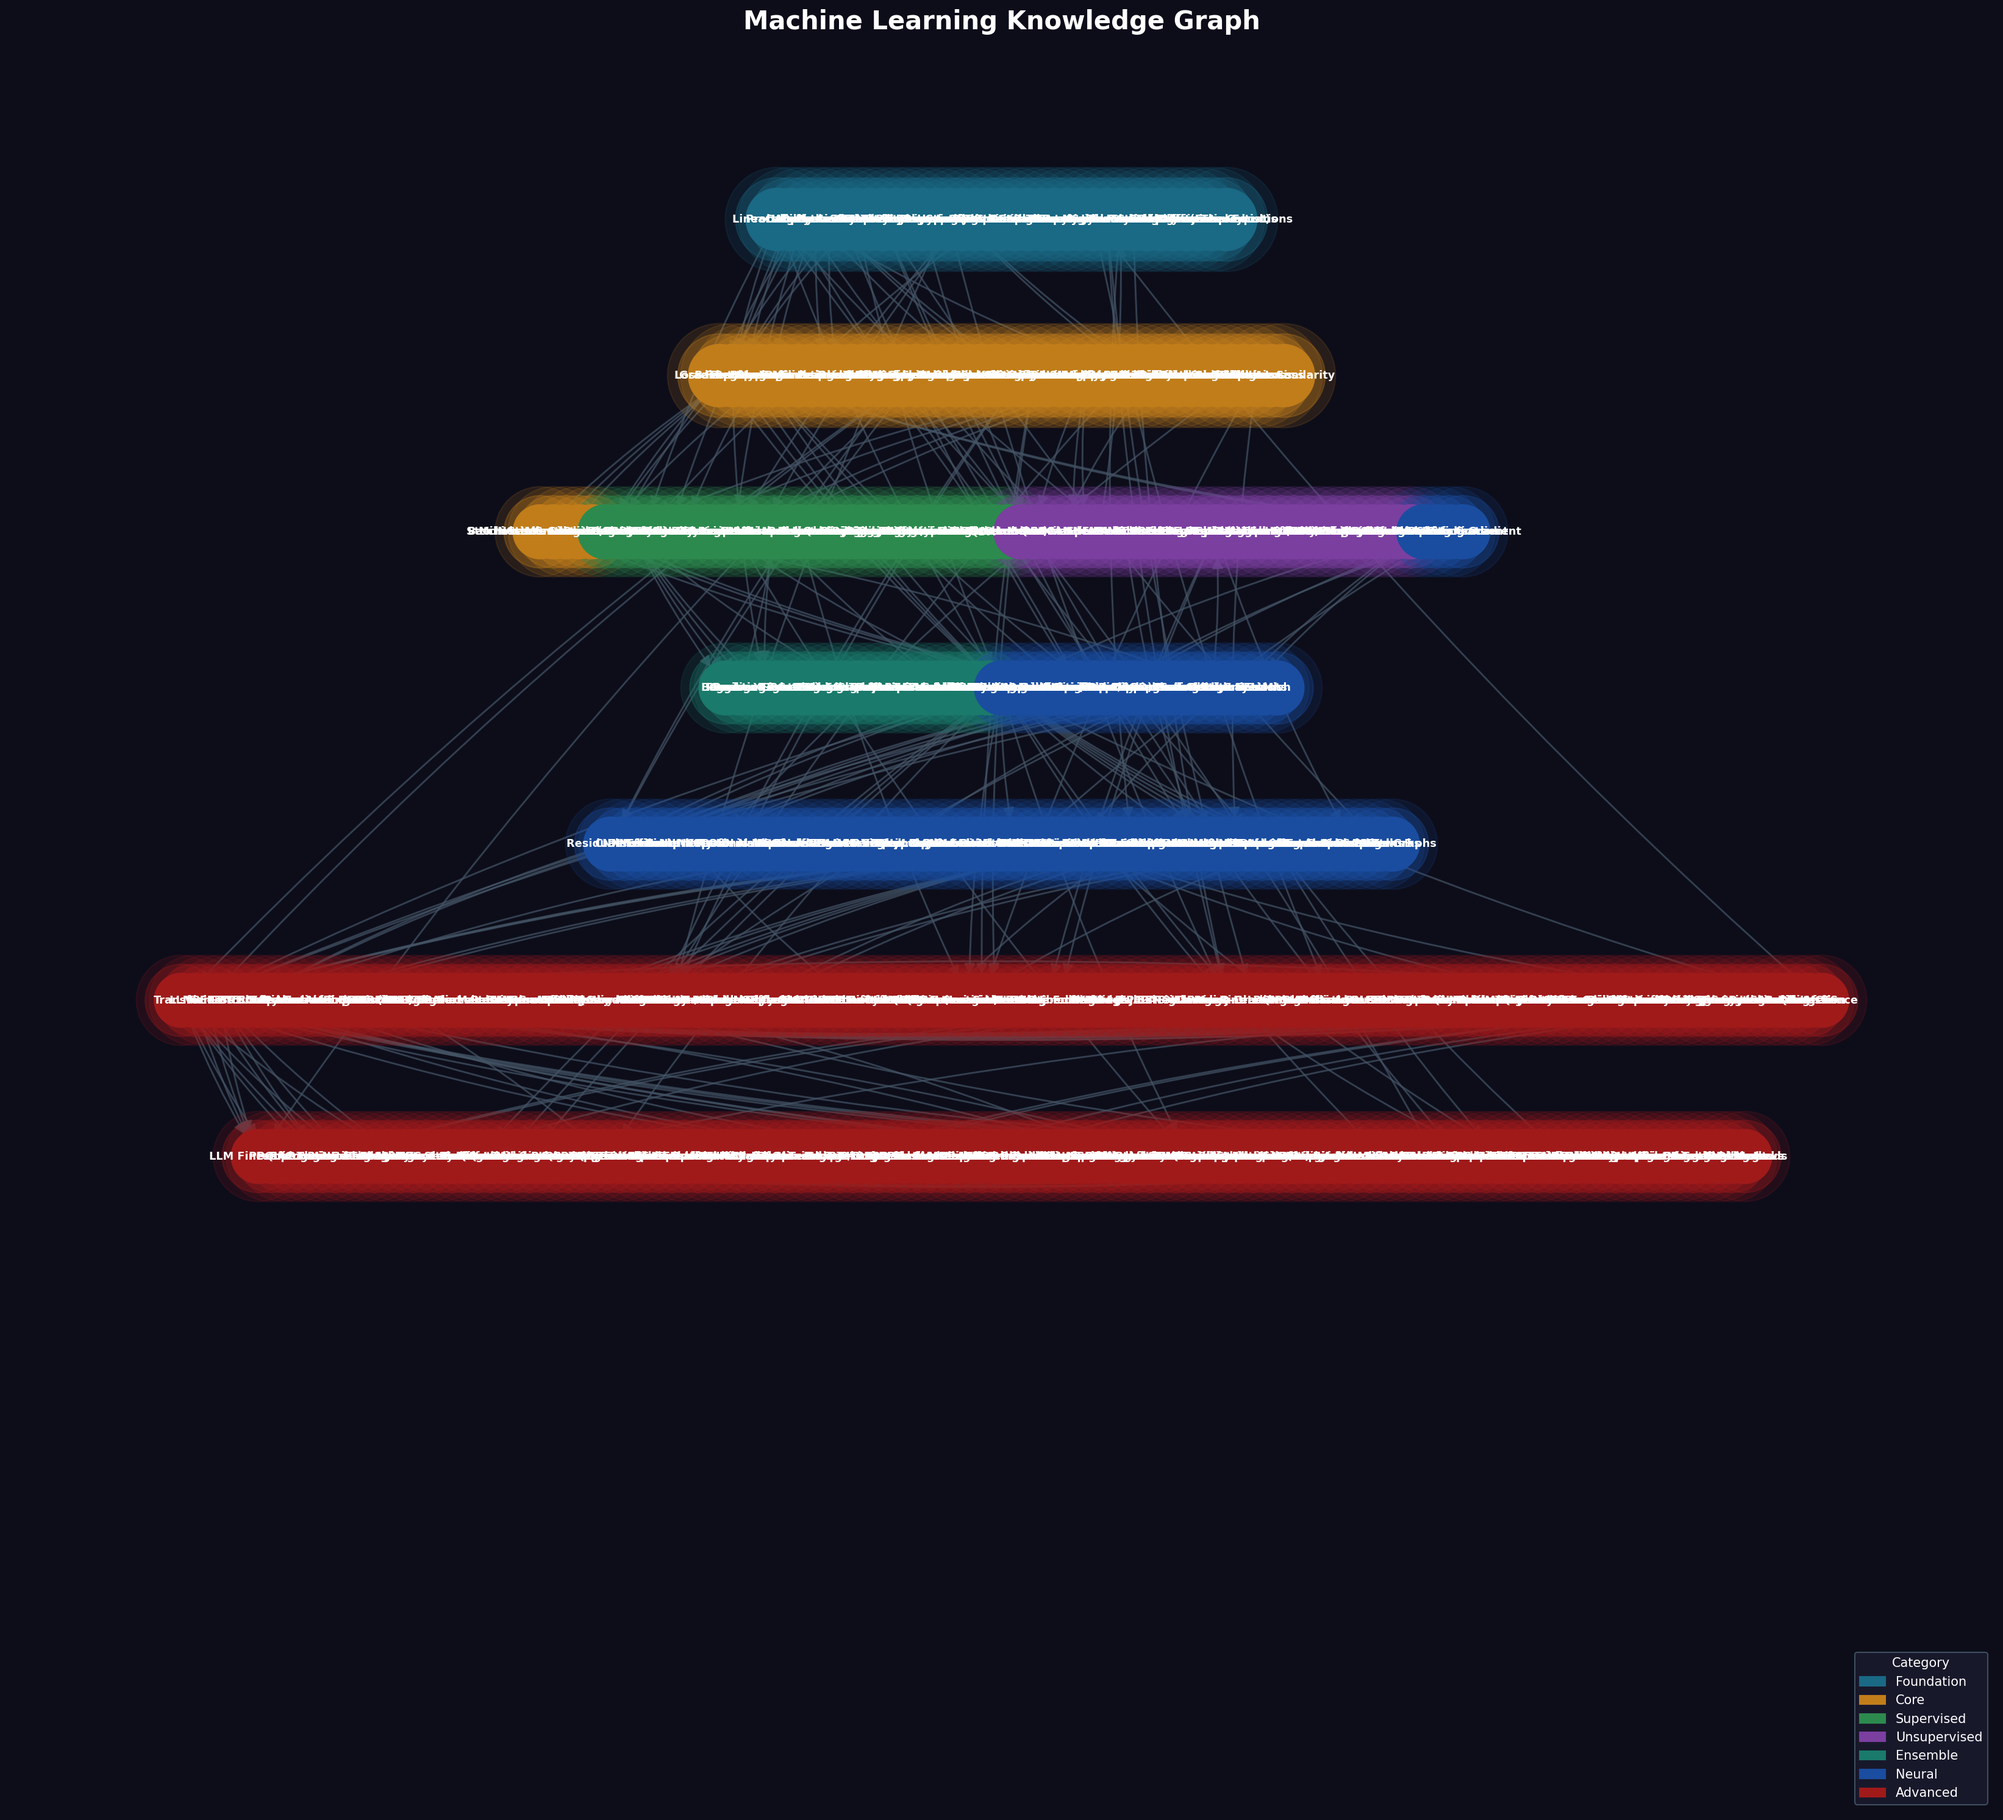
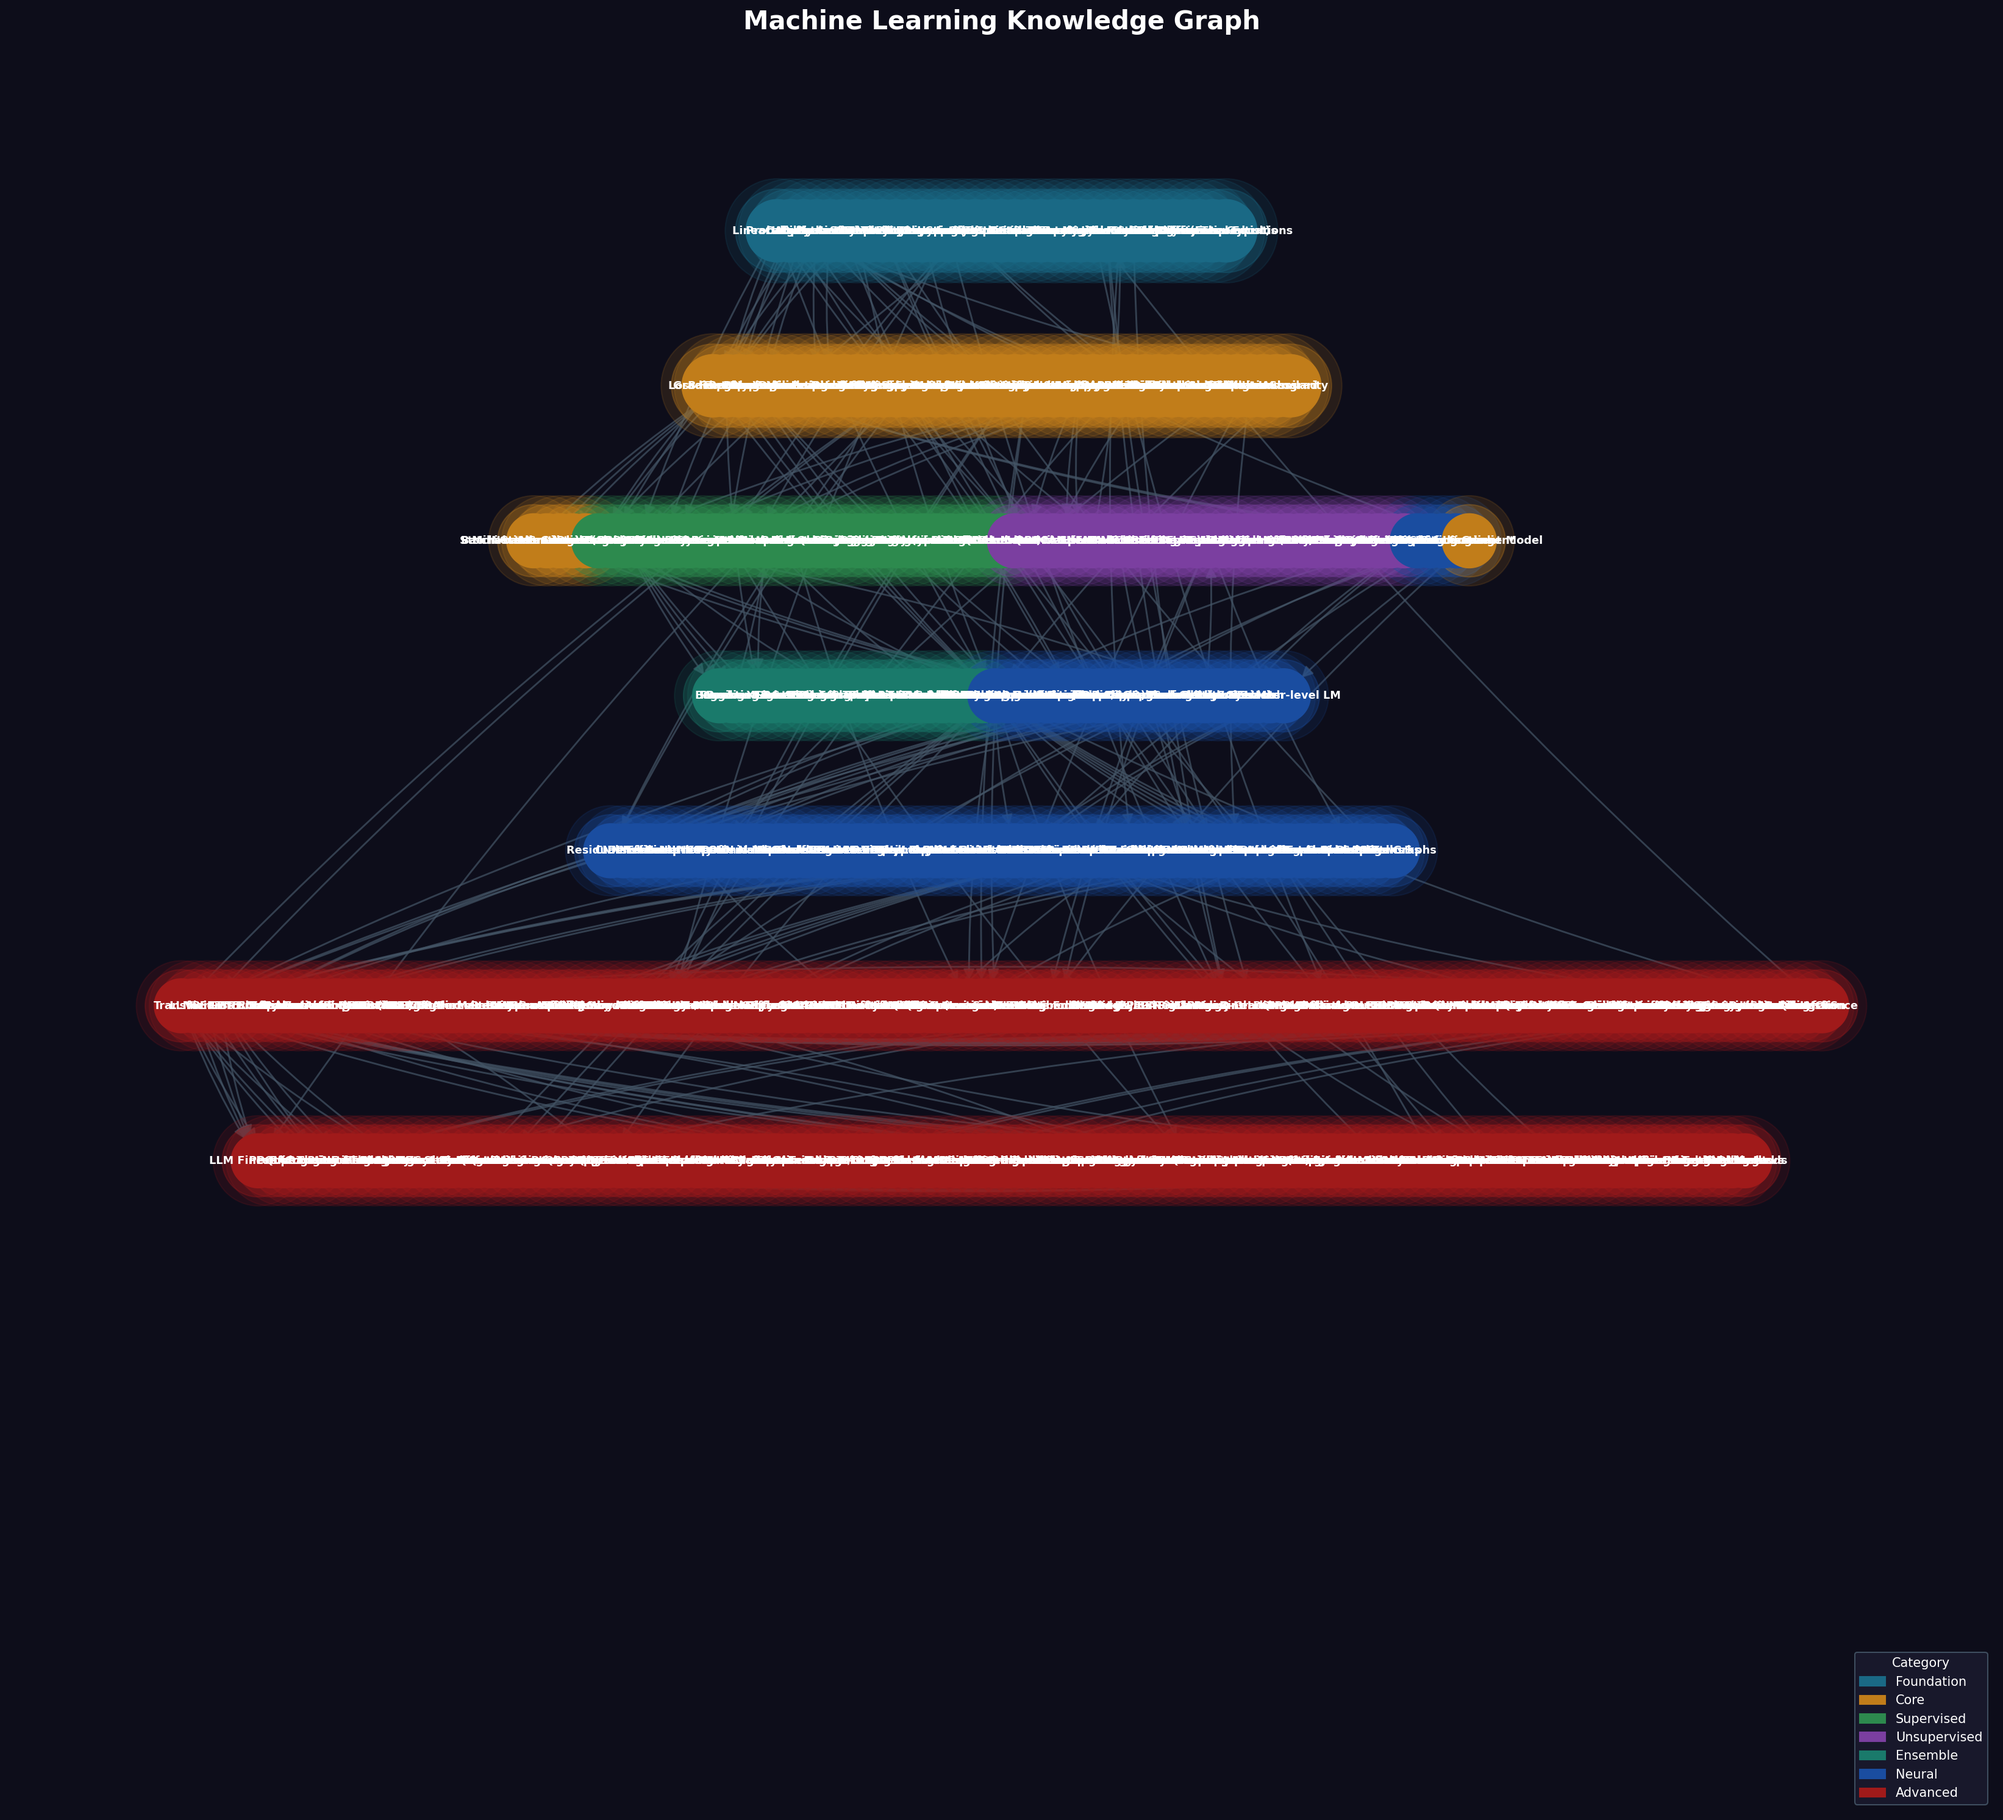
Add Karpathy's teaching nodes + YouTube links for 9 concepts
New nodes:
- Autograd (level 1) — automatic differentiation engine (micrograd)
- Bigram Language Model (level 2) — simplest language model baseline
- Character-level LM (level 3) — character-level text generation (makemore)

YouTube lecture links added to:
- Backpropagation, Neural Networks → micrograd lecture
- GPT, Transformers → Let's build GPT from scratch
- BPE Tokenization → Let's build the GPT Tokenizer
- LLM → Intro to Large Language Models
- RNNs → makemore part 4
- Word Embeddings → makemore part 2

New YouTube button (red ▶) renders in node info panel alongside
arXiv and GitHub links.

Total: 502 nodes, 622 edges.

Changed region(s): [[0.0621, 0.0935, 0.9315, 0.6854]]

diff --git a/static/index.html b/static/index.html
@@ -720,7 +720,7 @@ fetch('graph.json').then(r => r.json()).then(data => {
     'LLM':                          { arxiv: '2005.14165', github: 'huggingface/transformers' },
     'Transformers':                 { arxiv: '1706.03762', github: 'huggingface/transformers' },
     'BERT':                         { arxiv: '1810.04805', github: 'google-research/bert' },
-    'GPT':                          { arxiv: '2005.14165', github: 'openai/gpt-2' },
+    'GPT':                          { arxiv: '2005.14165', github: 'openai/gpt-2', youtube: 'kCc8FmEb1nY' },
     'T5':                           { arxiv: '1910.10683', github: 'google-research/text-to-text-transfer-transformer' },
     'Vision Transformers':          { arxiv: '2010.11929', github: 'google-research/vision_transformer' },
     'CLIP':                         { arxiv: '2103.00020', github: 'openai/CLIP' },
@@ -748,7 +748,7 @@ fetch('graph.json').then(r => r.json()).then(data => {
     'Multi-Query Attention':        { arxiv: '1911.02150' },
     'Mixture of Experts (MoE)':     { arxiv: '2101.03961' },
     'Mixture of Experts':           { arxiv: '2101.03961' },
-    'BPE Tokenization':             { arxiv: '1508.07909' },
+    'BPE Tokenization':             { arxiv: '1508.07909', youtube: 'zduSFxRajkE', github: 'karpathy/minbpe' },
 
     // ── Self-Supervised / Contrastive ─────────────────────────────────────
     'SimCLR':                       { arxiv: '2002.05709', github: 'google-research/simclr' },
@@ -842,6 +842,17 @@ fetch('graph.json').then(r => r.json()).then(data => {
     // ── Continual Learning ─────────────────────────────────────────────────
     'Elastic Weight Consolidation': { arxiv: '1612.00796' },
     'Progressive Neural Networks':  { arxiv: '1606.04671' },
+
+    // ── Karpathy's teachings (YouTube + GitHub) ─────────────────────────
+    'Backpropagation':              { youtube: 'VMj-3S1tku0', github: 'karpathy/micrograd' },
+    'Autograd':                     { youtube: 'VMj-3S1tku0', github: 'karpathy/micrograd' },
+    'Bigram Language Model':        { youtube: 'PaCmpygFfXo', github: 'karpathy/makemore' },
+    'Character-level LM':          { youtube: 'PaCmpygFfXo', github: 'karpathy/makemore' },
+    'Neural Networks':              { youtube: 'VMj-3S1tku0', github: 'karpathy/micrograd' },
+    'LLM':                          { youtube: 'zjkBMFhNj_g' },
+    'Transformers':                 { arxiv: '1706.03762', youtube: 'kCc8FmEb1nY', github: 'karpathy/nanoGPT' },
+    'Word Embeddings':              { youtube: 'TCH_1BHY58I', github: 'karpathy/makemore' },
+    'RNNs':                         { youtube: 'PaCmpygFfXo', github: 'karpathy/char-rnn' },
   };
 
   function showPaperLinks(label) {
@@ -863,6 +874,13 @@ fetch('graph.json').then(r => r.json()).then(data => {
          ⌥ GitHub repo ↗
        </a>`
     );
+    if (entry.youtube) links.push(
+      `<a href="https://www.youtube.com/watch?v=${entry.youtube}" target="_blank" rel="noopener"
+         style="font-size:11px;color:#c00;text-decoration:none;display:inline-flex;align-items:center;gap:4px;
+                background:rgba(204,0,0,0.07);border-radius:6px;padding:3px 8px;border:1px solid rgba(204,0,0,0.2);">
+         ▶ YouTube lecture ↗
+       </a>`
+    );
     el.innerHTML = links.join('');
     el.style.display = 'flex';
   }
@@ -877,6 +895,7 @@ fetch('graph.json').then(r => r.json()).then(data => {
     'Active Learning':'Active_learning', 'AdaBoost':'AdaBoost',
     'AdaBoost.R2':'Boosting_(machine_learning)', 'Adapter Layers':'Adapter',
     'Adversarial Attacks':'Adversarial_Cybernetics', 'Adversarial Training':'Adversarial_Training',
+    'Autograd':'Automatic_differentiation', 'Bigram Language Model':'Bigram', 'Character-level LM':'Language_model',
     'Affinity Propagation':'Affinity_propagation', 'Agentic Workflows':'GitHub_Agentic_Workflows',
     'Agglomerative Clustering':'Hierarchical_clustering', 'AlexNet':'AlexNet',
     'Algorithms':'Speedcubing_Algorithms', 'Alignment':'Polar_alignment',
@@ -1517,7 +1536,8 @@ fetch('graph.json').then(r => r.json()).then(data => {
     'Loss Functions': 1805, 'Gradient Descent': 1847, 'Batch Gradient Descent': 1847,
     'Stochastic Gradient Descent': 1951, 'Mini-batch Gradient Descent': 1960,
     'Momentum (SGD)': 1964, 'Nesterov Accelerated Gradient': 1983,
-    'Backpropagation': 1986,
+    'Backpropagation': 1986, 'Autograd': 1970,
+    'Bigram Language Model': 1948, 'Character-level LM': 2015,
     'Regularization': 1963, 'Feature Engineering': 1990,
     'Cross-Validation': 1974, 'Bias-Variance Tradeoff': 1992,
     'Hyperparameter Tuning': 1990, 'Data Preprocessing': 1990,

diff --git a/src/graph_data.py b/src/graph_data.py
@@ -520,6 +520,11 @@ NODES = {
     "Expert Parallelism":          (6, "advanced"),
     "Aletheia":                    (6, "advanced"),
 
+    # Karpathy's teachings
+    "Autograd":                    (1, "core"),
+    "Character-level LM":          (3, "neural"),
+    "Bigram Language Model":       (2, "core"),
+
     "Generalist Agents":           (6, "advanced"),
     "Embodied AI":                 (6, "advanced"),
     "Robotics Learning":           (6, "advanced"),
@@ -591,6 +596,13 @@ EDGES = [
     ("Monte Carlo Methods", "MCTS"), ("Monte Carlo Methods", "Offline RL"),
     ("Maximum Likelihood", "EM Algorithm"), ("Maximum Likelihood", "VAE"),
     ("EM Algorithm", "Gaussian Mixture Models"),
+
+    # Karpathy's teachings edges
+    ("Calculus", "Autograd"), ("Autograd", "Backpropagation"),
+    ("Autograd", "Neural Networks"),
+    ("Probability & Stats", "Bigram Language Model"), ("Bigram Language Model", "Character-level LM"),
+    ("Character-level LM", "RNNs"), ("Character-level LM", "LSTMs"),
+    ("Bigram Language Model", "Word Embeddings"),
 
     # Core → supervised/unsupervised
     ("Loss Functions", "Linear Regression"), ("Loss Functions", "Logistic Regression"),
